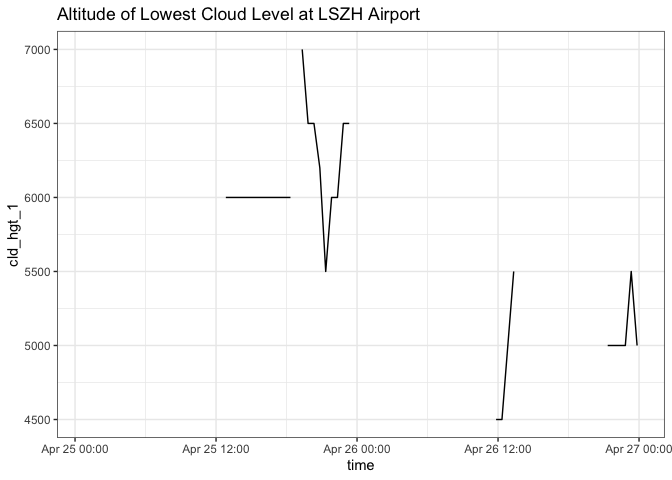
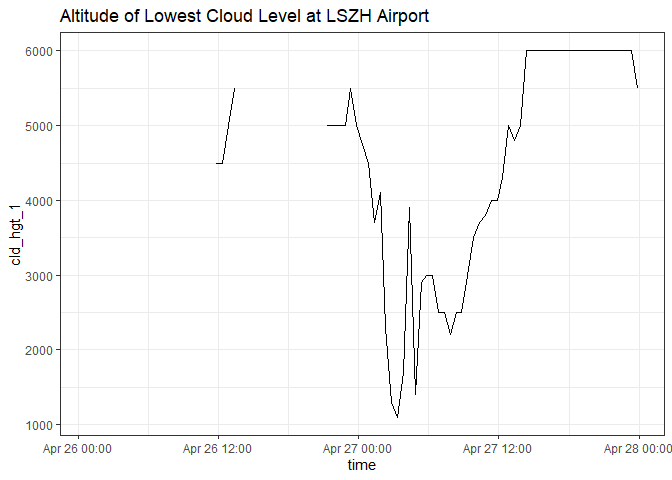
0.3.1a

diff --git a/README.md b/README.md
@@ -7,7 +7,7 @@ The goal of **metar** is to provide an R-built parser for METAR reports.
 
 ## Installation
 
-And the development version from [GitHub](https://github.com/) with:
+Install the development version from [GitHub](https://github.com/) with:
 
 ``` r
 # install.packages("devtools") 
@@ -29,31 +29,42 @@ dat.parsed <- parse_metar(dat$metar)
 
 # Structure
 str(dat.parsed)
-#> Classes 'data.table' and 'data.frame':   94 obs. of  24 variables:
+#> Classes 'data.table' and 'data.frame':   94 obs. of  35 variables:
 #>  $ icao       : chr  "LSZH" "LSZH" "LSZH" "LSZH" ...
-#>  $ time       : POSIXct, format: "2021-04-25 00:50:00" "2021-04-25 01:20:00" ...
+#>  $ time       : POSIXct, format: "2021-04-26 00:50:00" "2021-04-26 01:20:00" ...
+#>  $ speci      : chr  "0" "0" "0" "0" ...
 #>  $ auto       : chr  "0" "0" "0" "0" ...
 #>  $ cor        : chr  "0" "0" "0" "0" ...
 #>  $ wx         : chr  "CAVOK" "CAVOK" "CAVOK" "CAVOK" ...
-#>  $ dir        : int  240 0 0 300 NA NA NA NA NA 130 ...
-#>  $ ff         : num  1 0 0 1 1 1 1 1 1 2 ...
+#>  $ dir        : int  NA NA NA NA 150 160 160 170 130 20 ...
+#>  $ ff         : num  1 2 1 1 3 4 5 5 2 2 ...
 #>  $ fx         : num  NA NA NA NA NA NA NA NA NA NA ...
+#>  $ ff_unit    : chr  "KT" "KT" "KT" "KT" ...
 #>  $ dir_from   : int  NA NA NA NA NA NA NA NA NA NA ...
 #>  $ dir_to     : int  NA NA NA NA NA NA NA NA NA NA ...
 #>  $ vis        : num  9999 9999 9999 9999 9999 ...
+#>  $ vis_unit   : chr  "M" "M" "M" "M" ...
 #>  $ ndv        : chr  NA NA NA NA ...
 #>  $ min_vis    : int  NA NA NA NA NA NA NA NA NA NA ...
 #>  $ min_vis_dir: chr  NA NA NA NA ...
 #>  $ rvr        : chr  "" "" "" "" ...
-#>  $ vvis       : chr  NA NA NA NA ...
+#>  $ vvis       : num  NA NA NA NA NA NA NA NA NA NA ...
 #>  $ cld        : chr  "" "" "" "" ...
-#>  $ tt         : num  1 1 0 1 0 0 0 -1 -1 -1 ...
-#>  $ td         : num  -1 0 -1 -1 -1 -1 -1 -2 -2 -2 ...
+#>  $ tt_sign    : chr  "P" "P" "P" "P" ...
+#>  $ tt         : num  5 5 4 3 2 3 3 3 2 2 ...
+#>  $ td_sign    : chr  "P" "P" "P" "P" ...
+#>  $ td         : num  1 2 1 1 0 1 1 0 0 1 ...
 #>  $ pw         : chr  "" "" "" "" ...
+#>  $ qnh_unit   : chr  "Q" "Q" "Q" "Q" ...
 #>  $ qnh        : num  1023 1023 1022 1022 1022 ...
 #>  $ ws         : chr  NA NA NA NA ...
-#>  $ metar      : chr  "24001KT CAVOK 01/M01 Q1023 NOSIG" "00000KT CAVOK 01/M00 Q1023 NOSIG" "00000KT CAVOK 00/M01 Q1022 NOSIG" "30001KT CAVOK 01/M01 Q1022 NOSIG" ...
+#>  $ metar      : chr  "VRB01KT CAVOK 05/01 Q1023 NOSIG" "VRB02KT CAVOK 05/02 Q1023 NOSIG" "VRB01KT CAVOK 04/01 Q1022 NOSIG" "VRB01KT CAVOK 03/01 Q1022 NOSIG" ...
 #>  $ rmk        : chr  NA NA NA NA ...
+#>  $ wind_factor: num  1 1 1 1 1 1 1 1 1 1 ...
+#>  $ vis_factor : num  1 1 1 1 1 1 1 1 1 1 ...
+#>  $ qnh_factor : num  1 1 1 1 1 1 1 1 1 1 ...
+#>  $ tt_factor  : num  1 1 1 1 1 1 1 1 1 1 ...
+#>  $ td_factor  : num  1 1 1 1 1 1 1 1 1 1 ...
 #>  - attr(*, ".internal.selfref")=<externalptr>
 ```
 
@@ -61,7 +72,7 @@ str(dat.parsed)
 
 ``` r
 library(ggplot2)
-#> Warning: package 'ggplot2' was built under R version 3.6.2
+#> Warning: package 'ggplot2' was built under R version 4.0.4
 ggplot(dat.parsed, aes(time, tt)) +
   geom_path() +
   labs(title = "Recent Temperature at LSZH Airport") +
@@ -79,7 +90,7 @@ dat.cld$time <- dat.parsed$time
 
 # Structure
 str(dat.cld)
-#> Classes 'data.table' and 'data.frame':   94 obs. of  15 variables:
+#> Classes 'data.table' and 'data.frame':   94 obs. of  19 variables:
 #>  $ cld_levels : int  NA NA NA NA NA NA NA NA NA NA ...
 #>  $ cld_hgt_min: num  NA NA NA NA NA NA NA NA NA NA ...
 #>  $ cld_hgt_max: num  NA NA NA NA NA NA NA NA NA NA ...
@@ -88,20 +99,24 @@ str(dat.cld)
 #>  $ ceiling    : num  NA NA NA NA NA NA NA NA NA NA ...
 #>  $ cld_str_1  : chr  NA NA NA NA ...
 #>  $ cld_str_2  : chr  NA NA NA NA ...
+#>  $ cld_str_3  : chr  NA NA NA NA ...
 #>  $ cld_amt_1  : chr  NA NA NA NA ...
 #>  $ cld_amt_2  : chr  NA NA NA NA ...
+#>  $ cld_amt_3  : chr  NA NA NA NA ...
 #>  $ cld_hgt_1  : num  NA NA NA NA NA NA NA NA NA NA ...
 #>  $ cld_hgt_2  : num  NA NA NA NA NA NA NA NA NA NA ...
+#>  $ cld_hgt_3  : num  NA NA NA NA NA NA NA NA NA NA ...
 #>  $ cld_type_1 : chr  NA NA NA NA ...
 #>  $ cld_type_2 : chr  NA NA NA NA ...
-#>  $ time       : POSIXct, format: "2021-04-25 00:50:00" "2021-04-25 01:20:00" ...
+#>  $ cld_type_3 : chr  NA NA NA NA ...
+#>  $ time       : POSIXct, format: "2021-04-26 00:50:00" "2021-04-26 01:20:00" ...
 #>  - attr(*, ".internal.selfref")=<externalptr>
 
 ggplot(dat.cld, aes(time, cld_hgt_1)) +
   geom_path() +
   labs(title = "Altitude of Lowest Cloud Level at LSZH Airport") +
   theme_bw()
-#> Warning: Removed 24 row(s) containing missing values (geom_path).
+#> Warning: Removed 22 row(s) containing missing values (geom_path).
 ```
 
 <img src="man/figures/README-plot2-1.png" width="100%" />
